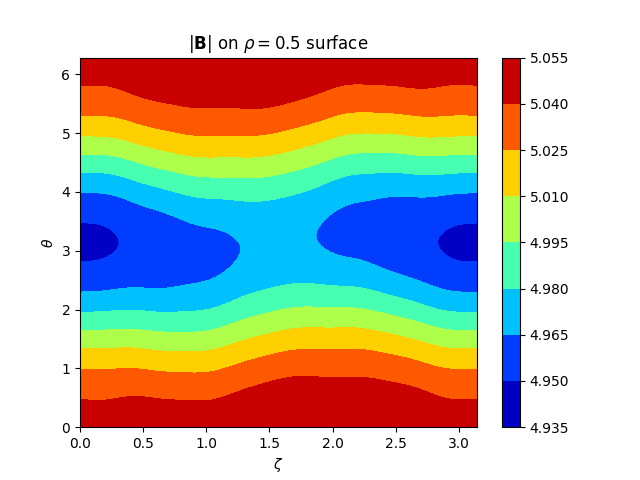
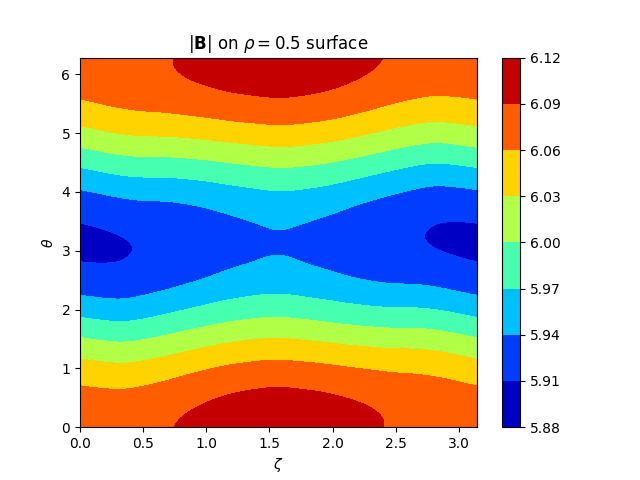
normalization updates to TrappedResonance

diff --git a/desc/compute/_neoclassical.py b/desc/compute/_neoclassical.py
@@ -8,7 +8,7 @@ from desc.backend import imap, jax, jit, jnp
 
 from ..batching import batch_map
 from ..integrals.bounce_integral import Bounce1D, Bounce2D
-from ..integrals.quad_utils import chebgauss2
+# from ..integrals.quad_utils import chebgauss2
 from ..utils import safediv
 from .data_index import register_compute_fun
 
@@ -17,6 +17,7 @@ from ..integrals.quad_utils import (
     chebgauss2,
     get_quadrature,
     grad_automorphism_sin,
+    simpson2
 )
 from ..integrals._bounce_utils import get_pitch_inv_quad
 from quadax import simpson
@@ -819,21 +820,25 @@ def f_tr1(params, transforms, profiles, data, **kwargs):
     # sigma=jnp.ones((jnp.shape(omega_arr))) # for Gaussian
     # sigma = sigma*10 # can set to vary with order of resonance if desired
     
-    def tb_zr(res_arr_set,res_arr):
+    def tb_zr(res_arr_set,res_arr,q_arr):
         res_arr = res_arr.at[0].set(0)
-        return res_arr_set+1,res_arr
-    def fb_zr(res_arr_set,res_arr):
-        return res_arr_set, res_arr
-    def false_branch_res_setup(res_arr_set,res_arr,p,q): # do nothing
-        return res_arr_set, res_arr
-    def true_branch_res_setup(res_arr_set,res_arr,p,q): # add both positive and negative resonance to res_arr
+        q_arr = q_arr.at[0].set(1)
+        return res_arr_set+1,res_arr,q_arr
+    def fb_zr(res_arr_set,res_arr,q_arr):
+        return res_arr_set, res_arr, q_arr
+    def false_branch_res_setup(res_arr_set,res_arr,p,q,q_arr): # do nothing
+        return res_arr_set, res_arr, q_arr
+    def true_branch_res_setup(res_arr_set,res_arr,p,q,q_arr): # add both positive and negative resonance to res_arr
         res_arr = res_arr.at[res_arr_set].set(p/q)
         res_arr = res_arr.at[res_arr_set+1].set(-p/q)
-        return res_arr_set+2, res_arr
+        q_arr = q_arr.at[res_arr_set].set(q)
+        q_arr = q_arr.at[res_arr_set+1].set(q)
+        return res_arr_set+2, res_arr, q_arr
 
     res_arr = jnp.full(2*p_max*q_max + 1, jnp.pi) # maximum possible size of array of resonances, including the zero resonance and negative resonances
+    q_arr = jnp.full(2*p_max*q_max + 1, 0)
     res_arr_set = 0
-    res_arr_set, res_arr = jax.lax.cond(include_zero_res,tb_zr,fb_zr,res_arr_set,res_arr)
+    res_arr_set, res_arr, q_arr = jax.lax.cond(include_zero_res,tb_zr,fb_zr,res_arr_set,res_arr,q_arr)
     # p_max and q_max are Python integers so these loops remain differentiable with jax and jit
     for p in range(1,p_max+1): # include the zero resonance
         for q in range(1,q_max+1):
@@ -841,7 +846,7 @@ def f_tr1(params, transforms, profiles, data, **kwargs):
                 ~jnp.isin(p/q, res_arr),
                 jnp.logical_and(p/q >= res_range_min, p/q <= res_range_max)
                 )
-            res_arr_set, res_arr = jax.lax.cond( condition, true_branch_res_setup, false_branch_res_setup, res_arr_set,res_arr,p,q )
+            res_arr_set, res_arr, q_arr = jax.lax.cond( condition, true_branch_res_setup, false_branch_res_setup, res_arr_set,res_arr,p,q,q_arr )
 
     # for perfect equilibria, using the [0,0,0,0] value is acceptable. But for non-perfect, need to average over all non-zero wells and different field lines and filter
     num_wells = ado_shape[3]
@@ -921,11 +926,10 @@ def f_tr1(params, transforms, profiles, data, **kwargs):
     omega_broad = jnp.broadcast_to(omega_arr[...,None], (omega_arr.shape[0],omega_arr.shape[1],omega_arr.shape[2],res_arr.shape[0]))
     psi_da_broad = jnp.broadcast_to(psi_drift_avg[...,None], (psi_drift_avg.shape[0],psi_drift_avg.shape[1],psi_drift_avg.shape[2],res_arr.shape[0]))
 
-    # Set parameters (it is recommended to change wd if you desire a wider or narrower bump function, NOT w and A)
-    # w, A, wd are able to be configured for different weightings on different resonances if desired
-    w = jnp.ones((jnp.shape(omega_broad))) * 1 # in combination with A, changes width and amplitude of bump function
-    A = jnp.ones((jnp.shape(omega_broad))) * 100 # in combination with w, changes width and amplitude of bump function
-    wd = jnp.ones((jnp.shape(omega_broad))) * 0.5 # sets half-width of bump function
+    # Set parameters
+    w = 1 # in combination with A, changes width and amplitude of bump function
+    # A = 100 # in combination with w, changes width and amplitude of bump function
+    wd = jnp.ones((jnp.shape(omega_broad))) * 0.05 # sets half-width of bump function
     a = res_broad + wd
     b = res_broad - wd
     # t = -1 # for form option 1
@@ -933,16 +937,54 @@ def f_tr1(params, transforms, profiles, data, **kwargs):
     # Determine which resonances are considered for which frequencies
     y = omega_broad - res_broad
     condition = jnp.logical_and(abs(y) < wd, res_broad!=jnp.pi) # check that corresponding omega value is less than wd away from the resonance and not jnp.pi (unset)
-    
+
+    # Create q array for division into objective function
+    q_broad = q_arr[None,None,None,:] # make 4D array with q values on axis=3
+    q_broad = jnp.broadcast_to(q_broad, (omega_arr.shape[0], omega_arr.shape[1], omega_arr.shape[2], q_arr.shape[0]))
+
+    # Compute objective function, also computing normalization of bump function, satisfying Eq. 6 in Duignan et al., Physica D 449 (2023) 133749
+    # Calculate normalizing factor given w_res, wd for each resonance
+    def obj_func_calc(w,a,b,q_broad,psi_da_broad):
+
+        def bump_func_int(w,a,b):
+            # Set up quadrature points and weights
+            quad_points, quad_weights = get_quadrature(
+                simpson2(32),  # 32-point Gauss-Legendre quadrature
+                (automorphism_sin, grad_automorphism_sin)  # Coordinate transformation
+            ) # this is from negative one to positive one
+
+            # Recast to accomodate 4D arrays (rho,pitch,energy,resonance) and then the fifth dimension will be quadrature points
+            quad_points = quad_points[None,None,None,None,:]
+            quad_weights = quad_weights[None,None,None,None,:]
+            a = a[...,None]
+            b = b[...,None]
+
+            # Define integrand
+            x_transformed = 0.5 * (b - a) * (quad_points + 1) + a # transform to desired 1D interval
+            jacobian = 0.5 * (b - a) # Jacobian from transformation
+            integrand = jnp.exp(jnp.clip(
+                w * ((a - b)**2) / ((x_transformed - b) * (x_transformed - a)), 
+                -500, 500
+                )
+            )
+
+            # Compute integral
+            return jnp.sum(integrand * quad_weights * jacobian, axis=-1)
+
+        bump_func = bump_func_int(w,a,b)
+        A = 1 / bump_func # compute normalization of bump function
+        return safediv(A * (psi_da_broad**2) * bump_func, q_broad)
+    # note the normalization of psi_da_broad is roped into the entire objective function being normalized, see _neoclassical.py in "objectives" directory
+
     # Calculate objective function
     obj_out = jnp.where(
         condition,
         # A * jnp.exp(  jnp.clip(-w * (( -((y+0.5)**2) + (y+0.5) )**t),-500,500)  ), # form option 1, clip to avoid overflow warning in jnp.exp()
-        A * (psi_da_broad**2) * jnp.exp(  jnp.clip( w * ((a-b)**2) / ( (omega_broad-b) * (omega_broad-a) ) ,-500,500)  ), # form option 2, clip to avoid overflow warning in jnp.exp()
+        obj_func_calc(w,a,b,q_broad,psi_da_broad), # form option 2, clip to avoid overflow warning in jnp.exp()
         # A * jnp.exp(  jnp.clip( w * ((a-b)**2) / ( (omega_broad-b) * (omega_broad-a) ) ,-500,500)  ), # form option 2, clip to avoid overflow warning in jnp.exp()
         0
         ) # need to broadcast res_arr to 3D to match each res with each 2D matrix of omega_arr and then do this subtraction and jnp.where operation
-    obj_out = jnp.sum(obj_out,axis=3) # outputs array with size (rho,pitch,energy)
+    obj_out = jnp.sum(obj_out,axis=3) # outputs array with size (rho,pitch,energy), where we have summed over all resonances in this line
     # obj_out = y[:,0,0]**2 # debugging
 
     # Gaussian method

diff --git a/desc/objectives/_neoclassical.py b/desc/objectives/_neoclassical.py
@@ -458,7 +458,7 @@ class TrappedResonance(_Objective):
     """
 
     _coordinates = "r" # "rtz" if need all three coordinates
-    _units = "~" # dimensionless
+    _units = "(s^-2)" # A is dimensionless, vD has units m/s, grad(psi) has units of 1/m, so this objective function has units of s^-2
     _print_value_fmt = "Resonant frequency vicinity: "
 
     _static_attrs = _Objective._static_attrs + ["_hyperparameters", "_keys_1dr", "_key"]